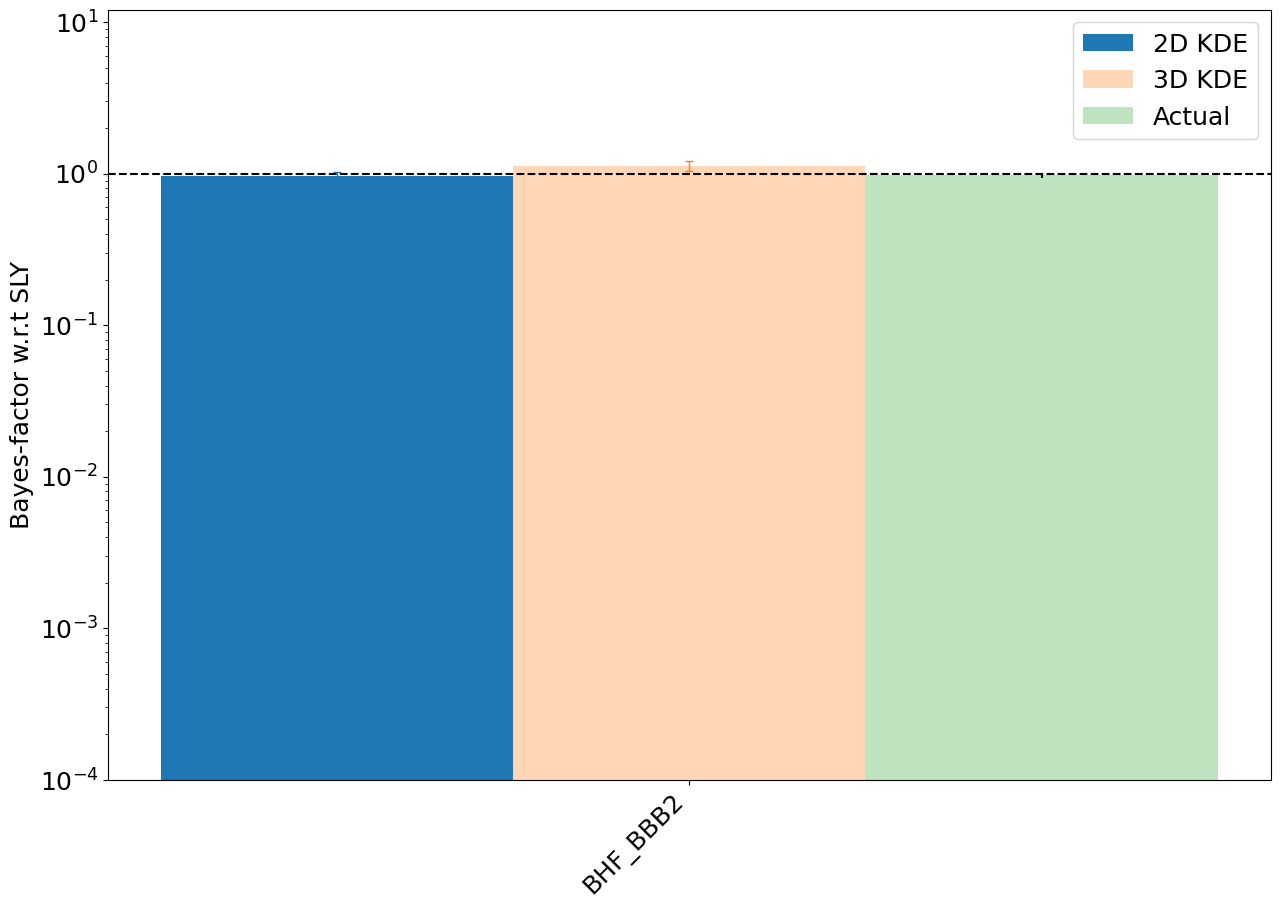
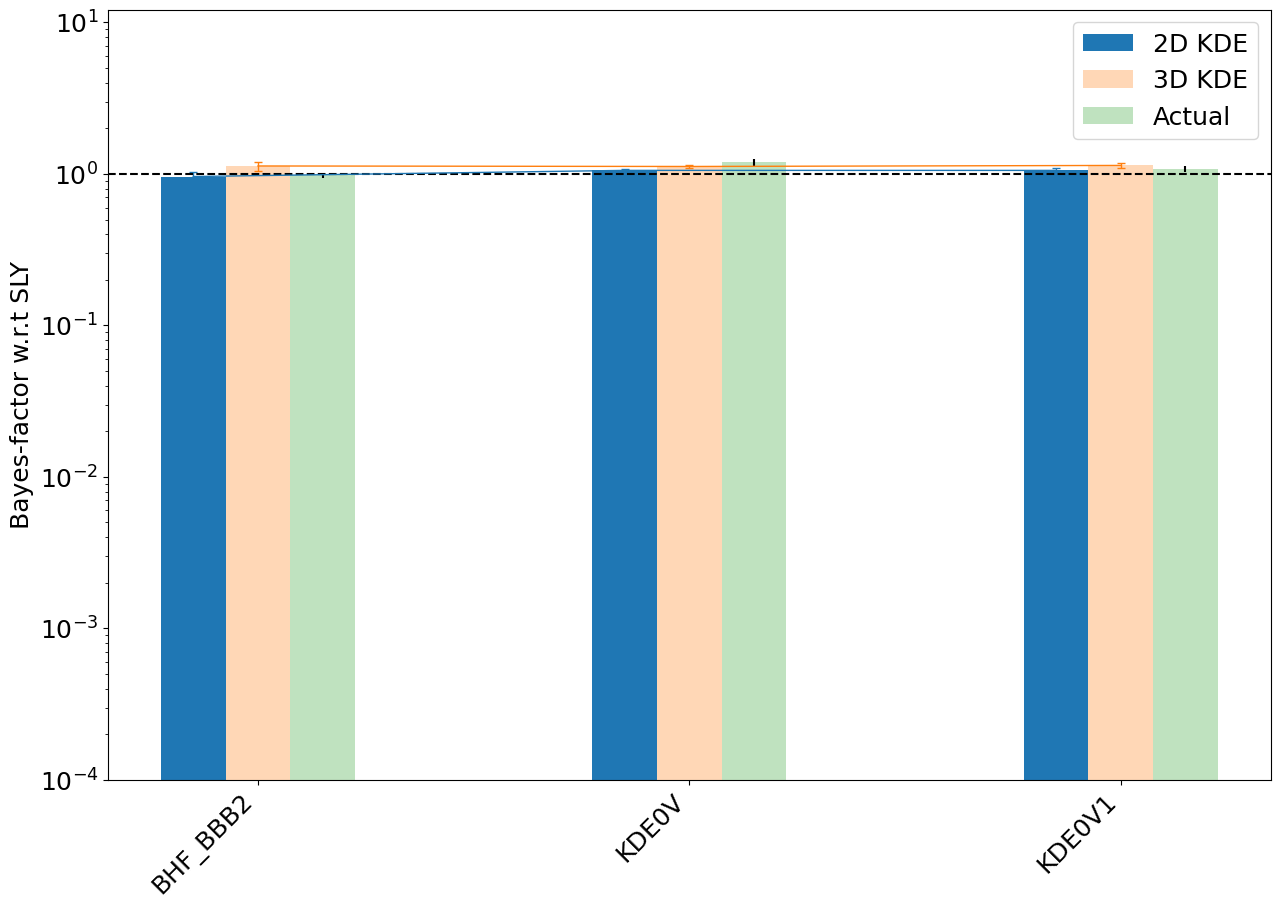
Testing refined plots of 2D 3D BFs. 2nd time.

diff --git a/year3/PhenomTaylorCompare/GW170817BFs_GWXtreme2024Paper.py b/year3/PhenomTaylorCompare/GW170817BFs_GWXtreme2024Paper.py
@@ -22,7 +22,7 @@ def singleEventBFs():
     colors = ["#1f77b4", "#ffd7b6", "#bfe2bf"]
     methods = [modsel_uLTs, modsel_uLs]
     #eosList = ["BHF_BBB2","KDE0V","KDE0V1","SKOP","H4","HQC18","SLY2","SLY230A","SKMP","RS","SK255","SLY9","APR4_EPP","SKI2","SKI4","SKI6","SK272","SKI3","SKI5","MPA1","MS1_PP","MS1B_PP"]
-    eosList = ["BHF_BBB2"]
+    eosList = ["BHF_BBB2","KDE0V","KDE0V1"]
     
     with open("/home/michael/projects/eos/GWXtreme_Tasks/year2/bilby_runs/simulations/outdir/nested_sampling_results.json","r") as f:
         nestSamp = json.load(f)
